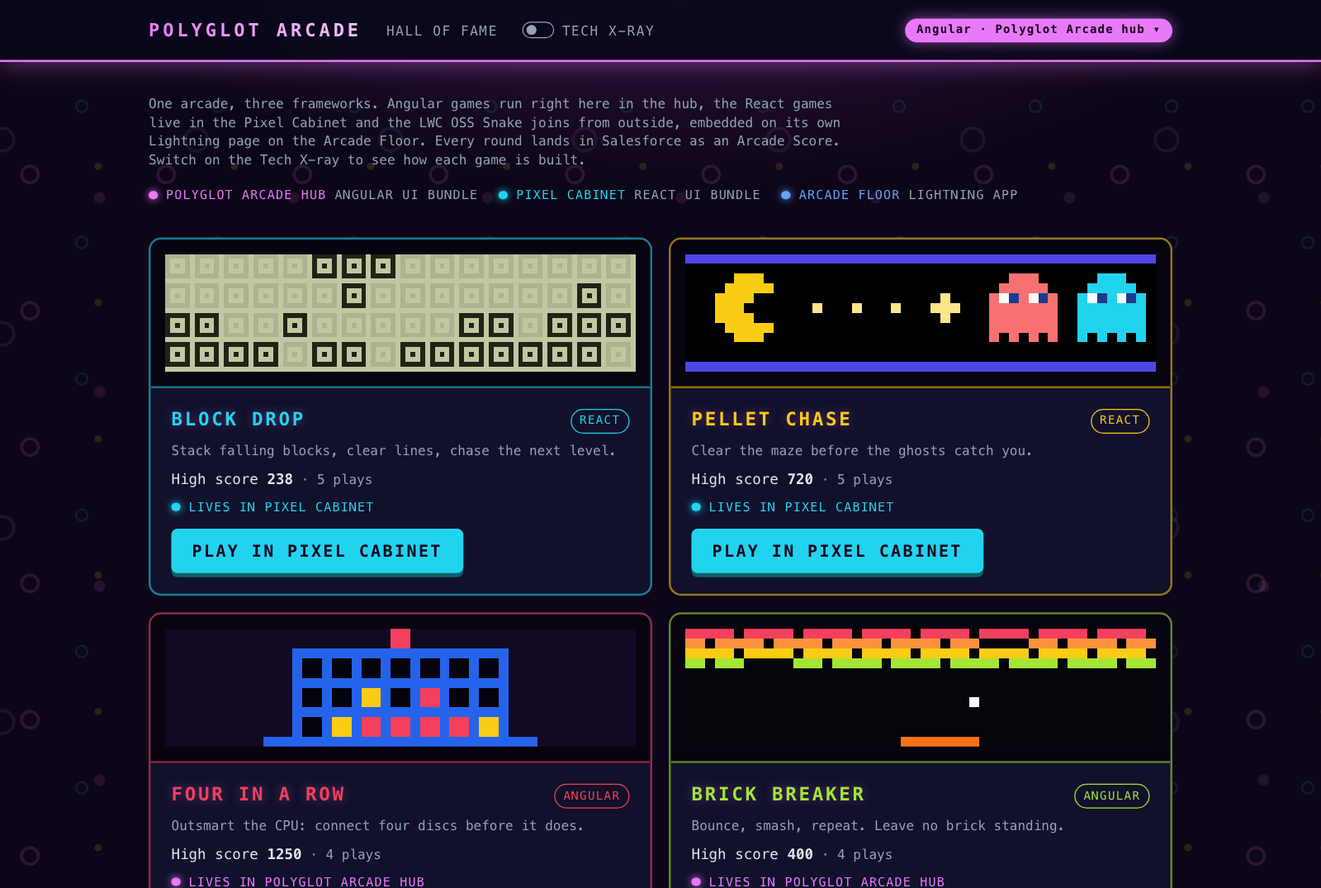
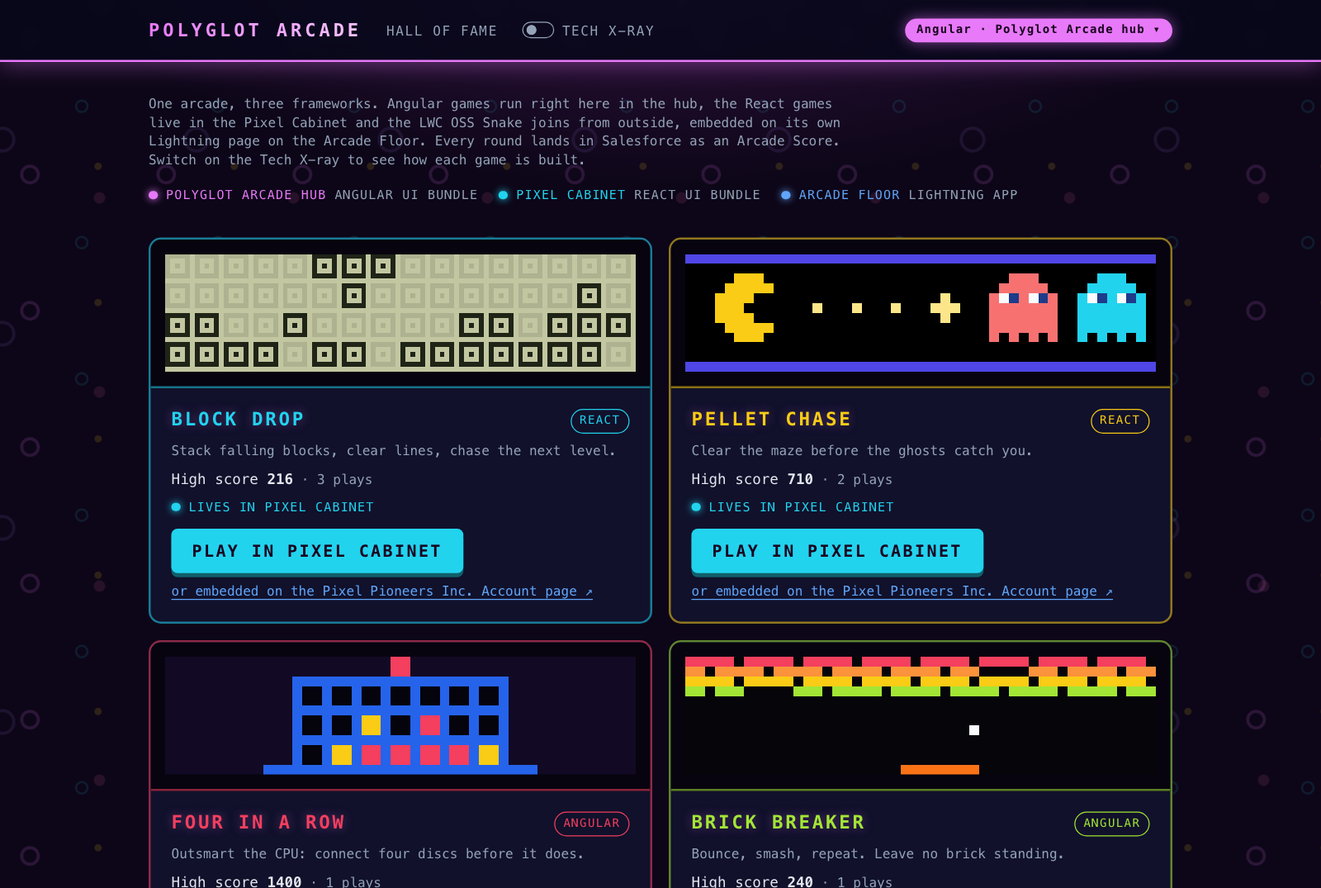
feat(arcade-floor): seed the showcase Account Pixel Pioneers Inc.
The Arcade Account page - the cabinet framed on a record page, rounds counted
for the Account - had no way in: no link from the hub, and a fresh org has no
Account to open. The setup now upserts Pixel Pioneers Inc. by the new external
ID Account.Arcade_Key__c, the hub lobby links its page in the Arcade Floor app
from Block Drop and Pellet Chase, and the list view Arcade Accounts lists it.
The permission set grants read access to Accounts and the new field.

Docs: the Account page screenshot for pattern 3, the showcase Account in the
data model, setup, upgrade and troubleshooting; a fresh lobby screenshot.

Changed region(s): [[0.0938, 0.6447, 0.9062, 1.0], [0.75, 0.9209, 0.7812, 0.9823]]

diff --git a/force-app/main/default/uiBundles/polyglotArcade/src/app/pages/lobby/lobby.spec.ts b/force-app/main/default/uiBundles/polyglotArcade/src/app/pages/lobby/lobby.spec.ts
@@ -1,7 +1,7 @@
 import { TestBed } from '@angular/core/testing';
 import { provideRouter } from '@angular/router';
 import { ArcadeApi, type ArcadeGame } from '../../api/arcade-api.service';
-import { arcadeFloorUrl } from '../../arcade-floor';
+import { arcadeFloorRecordUrl, arcadeFloorUrl } from '../../arcade-floor';
 import { TechXray } from '../../tech-xray.service';
 import { LobbyComponent } from './lobby';
 
@@ -42,10 +42,18 @@ const GAMES: ArcadeGame[] = [
   game({ key: 'new-game', name: 'New Game', framework: 'Angular' }),
 ];
 
-async function renderLobby(): Promise<HTMLElement> {
+const SHOWCASE = { id: '001SHOWCASE', name: 'Pixel Pioneers Inc.' };
+
+async function renderLobby(showcase: typeof SHOWCASE | null = SHOWCASE): Promise<HTMLElement> {
   await TestBed.configureTestingModule({
     imports: [LobbyComponent],
-    providers: [provideRouter([]), { provide: ArcadeApi, useValue: { games: async () => GAMES } }],
+    providers: [
+      provideRouter([]),
+      {
+        provide: ArcadeApi,
+        useValue: { games: async () => GAMES, showcaseAccount: async () => showcase },
+      },
+    ],
   }).compileComponents();
   const fixture = TestBed.createComponent(LobbyComponent);
   await fixture.whenStable();
@@ -67,6 +75,35 @@ describe('LobbyComponent', () => {
     );
     expect(arcadeFloorUrl(undefined, 'Arcade_Snake')).toBeNull();
     expect(arcadeFloorUrl('https://org.my.salesforce.com', undefined)).toBeNull();
+  });
+
+  it('builds a record URL inside the Arcade Floor app', () => {
+    expect(arcadeFloorRecordUrl('https://org.my.salesforce.com/', 'Account', '001X')).toBe(
+      'https://org.my.salesforce.com/lightning/app/c__arcadeFloor/r/Account/001X/view',
+    );
+    expect(arcadeFloorRecordUrl('https://org.my.salesforce.com', 'Account', null)).toBeNull();
+    expect(arcadeFloorRecordUrl(undefined, 'Account', '001X')).toBeNull();
+  });
+
+  it('offers the showcase Account page for games Lightning can frame', async () => {
+    globalThis.SFDC_ENV = { orgUrl: 'https://org.my.salesforce.com' };
+    const root = await renderLobby();
+
+    const account = card(root, 'Block Drop').querySelector<HTMLAnchorElement>('a.lobby-account');
+    expect(account?.textContent).toContain('Pixel Pioneers Inc. Account page');
+    expect(account?.getAttribute('href')).toBe(
+      'https://org.my.salesforce.com/lightning/app/c__arcadeFloor/r/Account/001SHOWCASE/view',
+    );
+    expect(account?.getAttribute('target')).toBe('_top');
+    // Only cabinet games with an embed path are framed on a record page.
+    expect(card(root, 'Four in a Row').querySelector('a.lobby-account')).toBeNull();
+    expect(card(root, 'Snake').querySelector('a.lobby-account')).toBeNull();
+  });
+
+  it('shows no Account link without the showcase Account', async () => {
+    globalThis.SFDC_ENV = { orgUrl: 'https://org.my.salesforce.com' };
+    const root = await renderLobby(null);
+    expect(root.querySelector('a.lobby-account')).toBeNull();
   });
 
   it('links each game to where it is played', async () => {

diff --git a/force-app/main/default/uiBundles/polyglotArcade/src/app/api/arcade-api.service.ts b/force-app/main/default/uiBundles/polyglotArcade/src/app/api/arcade-api.service.ts
@@ -1,6 +1,7 @@
 /**
- * Polyglot Arcade data access for the hub: the game catalogue, score creation
- * and leaderboards via the UI API GraphQL endpoint of the Data SDK.
+ * Polyglot Arcade data access for the hub: the game catalogue, score creation,
+ * leaderboards and the showcase Account via the UI API GraphQL endpoint of the
+ * Data SDK.
  */
 import { Injectable, inject } from '@angular/core';
 import { DataClient } from './data-client.service';
@@ -26,6 +27,15 @@ export interface ArcadeGame {
   highScore: number | null;
   totalPlays: number;
 }
+
+/** The Account that npm run setup seeds to show the cabinet on a record page. */
+export interface ShowcaseAccount {
+  id: string;
+  name: string;
+}
+
+/** Arcade_Key__c of the showcase Account in the seed data. */
+export const SHOWCASE_ACCOUNT_KEY = 'pixel-pioneers';
 
 export interface LeaderboardEntry {
   id: string;
@@ -75,6 +85,12 @@ interface LeaderboardResult {
         }>;
       };
     };
+  };
+}
+
+interface ShowcaseAccountResult {
+  uiapi: {
+    query: { Account: { edges: Array<{ node: { Id: string; Name: FieldValue<string> } }> } };
   };
 }
 
@@ -170,6 +186,25 @@ const LEADERBOARD = /* GraphQL */ `
   }
 `;
 
+const SHOWCASE_ACCOUNT = /* GraphQL */ `
+  query HubShowcaseAccount($key: String) {
+    uiapi {
+      query {
+        Account(where: { Arcade_Key__c: { eq: $key } }, first: 1) {
+          edges {
+            node {
+              Id
+              Name {
+                value
+              }
+            }
+          }
+        }
+      }
+    }
+  }
+`;
+
 const CREATE_SCORE = /* GraphQL */ `
   mutation HubCreateScore($input: Arcade_Score__cCreateInput!) {
     uiapi {
@@ -252,6 +287,22 @@ export class ArcadeApi {
       },
     });
     return { isHighScore: input.score > (game.highScore ?? 0) };
+  }
+
+  /**
+   * The seeded showcase Account, or null when it is missing or the player
+   * cannot read it - the lobby then simply shows no Account link.
+   */
+  async showcaseAccount(): Promise<ShowcaseAccount | null> {
+    try {
+      const data = await this.client.execute<ShowcaseAccountResult>(SHOWCASE_ACCOUNT, {
+        key: SHOWCASE_ACCOUNT_KEY,
+      });
+      const node = data.uiapi.query.Account.edges[0]?.node;
+      return node ? { id: node.Id, name: node.Name.value ?? 'Account' } : null;
+    } catch {
+      return null;
+    }
   }
 
   /** Name of the logged-in user, shown in the marquee bar. */

diff --git a/force-app/main/default/uiBundles/polyglotArcade/src/app/pages/lobby/lobby.ts b/force-app/main/default/uiBundles/polyglotArcade/src/app/pages/lobby/lobby.ts
@@ -11,8 +11,8 @@
  */
 import { ChangeDetectionStrategy, Component, inject, signal } from '@angular/core';
 import { RouterLink } from '@angular/router';
-import { ArcadeApi, type ArcadeGame } from '../../api/arcade-api.service';
-import { arcadeFloorUrl } from '../../arcade-floor';
+import { ArcadeApi, type ArcadeGame, type ShowcaseAccount } from '../../api/arcade-api.service';
+import { arcadeFloorRecordUrl, arcadeFloorUrl } from '../../arcade-floor';
 import { TeaserMarqueeComponent } from '../../components/teaser-marquee/teaser-marquee';
 import { teaserMarquee, type PixelArt } from '../../games/marquees';
 import { findHubGame } from '../../games/registry';
@@ -60,6 +60,8 @@ export class LobbyComponent {
   protected readonly surfaces = [HUB, CABINET, FLOOR];
   protected readonly games = signal<ArcadeGame[] | null>(null);
   protected readonly error = signal<string | null>(null);
+  /** Where cabinet games are framed on a record page; null until found. */
+  protected readonly showcase = signal<ShowcaseAccount | null>(null);
   private readonly orgUrl = globalThis.SFDC_ENV?.orgUrl;
 
   constructor() {
@@ -67,6 +69,7 @@ export class LobbyComponent {
       .games()
       .then((games) => this.games.set(games))
       .catch((err: Error) => this.error.set(err.message));
+    this.api.showcaseAccount().then((account) => this.showcase.set(account));
   }
 
   protected isHubGame(game: ArcadeGame): boolean {
@@ -91,6 +94,15 @@ export class LobbyComponent {
   /** Null when the hub runs without org context or the game has no page. */
   protected arcadeFloorUrl(game: ArcadeGame): string | null {
     return arcadeFloorUrl(this.orgUrl, ARCADE_FLOOR_TABS[game.key]);
+  }
+
+  /**
+   * The showcase Account's page on the Arcade Floor for a game Lightning can
+   * frame (pattern 3); null without org context, Account or embed path.
+   */
+  protected accountPageUrl(game: ArcadeGame): string | null {
+    if (!game.embedPath || game.hostSavesScore) return null;
+    return arcadeFloorRecordUrl(this.orgUrl, 'Account', this.showcase()?.id);
   }
 
   protected externalUrl(game: ArcadeGame): string | null {

diff --git a/force-app/main/default/uiBundles/polyglotArcade/src/app/arcade-floor.ts b/force-app/main/default/uiBundles/polyglotArcade/src/app/arcade-floor.ts
@@ -19,5 +19,18 @@ export function arcadeFloorUrl(
   return home && tab ? `${home}/n/${tab}` : null;
 }
 
+/**
+ * A record inside the app, e.g. the showcase Account: the record page that is
+ * the app's default for the object (Arcade Account) frames the cabinet.
+ */
+export function arcadeFloorRecordUrl(
+  orgUrl: string | null | undefined,
+  objectApiName: string,
+  recordId: string | null | undefined,
+): string | null {
+  const home = arcadeFloorHomeUrl(orgUrl);
+  return home && recordId ? `${home}/r/${objectApiName}/${recordId}/view` : null;
+}
+
 /** Ends the Salesforce session, like the platform's session banner does. */
 export const LOGOUT_URL = '/secur/logout.jsp';

diff --git a/force-app/main/default/uiBundles/polyglotArcade/src/app/pages/lobby/lobby.html b/force-app/main/default/uiBundles/polyglotArcade/src/app/pages/lobby/lobby.html
@@ -109,6 +109,15 @@
             target="_top"
             >Play in Pixel Cabinet</a
           >
+          @if (accountPageUrl(game); as account) {
+            <a
+              class="lobby-account"
+              [style.--where]="surfaces[2].color"
+              [href]="account"
+              target="_top"
+              >or embedded on the {{ showcase()?.name }} Account page ↗</a
+            >
+          }
         } @else {
           <p class="arcade-hint mt-1">
             Lives in the Pixel Cabinet. Store its App URL on the game record to launch it from here.

diff --git a/force-app/main/default/uiBundles/polyglotArcade/src/app/api/graphql-operations-types.ts b/force-app/main/default/uiBundles/polyglotArcade/src/app/api/graphql-operations-types.ts
@@ -183,6 +183,22 @@ export type HubLeaderboardQuery = {
   };
 };
 
+export type HubShowcaseAccountQueryVariables = Exact<{
+  key?: InputMaybe<Scalars['String']['input']>;
+}>;
+
+export type HubShowcaseAccountQuery = {
+  uiapi: {
+    query: {
+      Account?: {
+        edges?: Array<{
+          node?: { Id: string; Name?: { value?: string | null } | null } | null;
+        } | null> | null;
+      } | null;
+    };
+  };
+};
+
 export type HubCreateScoreMutationVariables = Exact<{
   input: Arcade_Score__CCreateInput;
 }>;

diff --git a/force-app/main/default/uiBundles/polyglotArcade/src/app/pages/lobby/lobby.css b/force-app/main/default/uiBundles/polyglotArcade/src/app/pages/lobby/lobby.css
@@ -40,6 +40,19 @@
   overflow: hidden;
 }
 
+/* Second way to play a cabinet game: framed on a record page in Lightning. */
+.lobby-account {
+  align-self: flex-start;
+  font-size: 0.8rem;
+  color: var(--where);
+  text-decoration: underline;
+  text-underline-offset: 3px;
+}
+
+.lobby-account:hover {
+  text-decoration-thickness: 2px;
+}
+
 /* Backlit marquee on top of the card. */
 .lobby-marquee {
   margin: -1.25rem -1.25rem 0.5rem;

diff --git a/docs/architecture/index.md b/docs/architecture/index.md
@@ -56,11 +56,11 @@ Solid arrows carry data and events, dotted arrows are links a player follows.
 
 ## The surfaces
 
-| Surface                                                                | Room                | Role                                                                                                                                                                                                                                            |
-| ---------------------------------------------------------------------- | ------------------- | ----------------------------------------------------------------------------------------------------------------------------------------------------------------------------------------------------------------------------------------------- |
-| <span class="surface hub">Polyglot Arcade</span><br/>Angular UI bundle | magenta arcade hall | The only lobby and hall of fame, and the entry point. It launches every game, wherever it lives.                                                                                                                                                |
-| <span class="surface cabinet">Pixel Cabinet</span><br/>React UI bundle | cyan machine room   | A machine, not a second hub. It has no lobby: opening it sends the player to the hub lobby. The hub launches its games at `/play/<game>`, Lightning frames them at `/embed`.                                                                    |
-| <span class="surface floor">Arcade Floor</span><br/>Lightning app      | blue                | Where microfrontends are composed: the **Snake** page with the Snake and its leaderboard, and the **Arcade Account** record page (app default for Accounts) with the cabinet and the Account's leaderboard. Rounds there count for the Account. |
+| Surface                                                                | Room                | Role                                                                                                                                                                                                                                                                                                     |
+| ---------------------------------------------------------------------- | ------------------- | -------------------------------------------------------------------------------------------------------------------------------------------------------------------------------------------------------------------------------------------------------------------------------------------------------- |
+| <span class="surface hub">Polyglot Arcade</span><br/>Angular UI bundle | magenta arcade hall | The only lobby and hall of fame, and the entry point. It launches every game, wherever it lives.                                                                                                                                                                                                         |
+| <span class="surface cabinet">Pixel Cabinet</span><br/>React UI bundle | cyan machine room   | A machine, not a second hub. It has no lobby: opening it sends the player to the hub lobby. The hub launches its games at `/play/<game>`, Lightning frames them at `/embed`.                                                                                                                             |
+| <span class="surface floor">Arcade Floor</span><br/>Lightning app      | blue                | Where microfrontends are composed: the **Snake** page with the Snake and its leaderboard, and the **Arcade Account** record page (app default for Accounts) with the cabinet and the Account's leaderboard. Rounds there count for the Account. The setup seeds **Pixel Pioneers Inc.** as its showcase. |
 
 The Snake is a guest, not a surface: an [LWC OSS game](https://github.com/svierk/lwc-oss-snake-game) on Vercel, without a Salesforce session of its own. It is played embedded on its page in the Arcade Floor.
 
@@ -80,12 +80,12 @@ Below the bar, every game is a machine of its own - see [Games](/games).
 
 ## Navigation between the surfaces
 
-| From → to       | How                                                                                                                                          |
-| --------------- | -------------------------------------------------------------------------------------------------------------------------------------------- |
-| Hub → cabinet   | The **App URL** on the React game records, stored by the setup's connect step                                                                |
-| Hub → Lightning | The org URL plus `/lightning/app/c__arcadeFloor/n/<tab>`, so the page opens inside the Arcade Floor app; `Salesforce ↗` opens the app itself |
-| Cabinet → hub   | Derived from the cabinet's own base path: both bundles share one origin, so the cabinet swaps its app name for the hub's                     |
-| Lightning → hub | The `← Polyglot Arcade` action on the Arcade Game Host card, from the App URL of the Angular game records                                    |
+| From → to       | How                                                                                                                                                                                                                                 |
+| --------------- | ----------------------------------------------------------------------------------------------------------------------------------------------------------------------------------------------------------------------------------- |
+| Hub → cabinet   | The **App URL** on the React game records, stored by the setup's connect step                                                                                                                                                       |
+| Hub → Lightning | The org URL plus `/lightning/app/c__arcadeFloor/n/<tab>` for a page and `/lightning/app/c__arcadeFloor/r/Account/<id>/view` for the showcase Account, so both open inside the Arcade Floor app; `Salesforce ↗` opens the app itself |
+| Cabinet → hub   | Derived from the cabinet's own base path: both bundles share one origin, so the cabinet swaps its app name for the hub's                                                                                                            |
+| Lightning → hub | The `← Polyglot Arcade` action on the Arcade Game Host card, from the App URL of the Angular game records                                                                                                                           |
 
 Both bundles are served from the same origin, for example `https://<my-domain>--c.<...>.salesforce.app/app/c__pixelCabinet` and `/app/c__polyglotArcade`. An org-relative URL such as `/lightning/app/c__polyglotArcade` does not launch a UI bundle - Lightning needs the bundle's `*.salesforce.app` URL, which is only exposed as the start URL of the app's App Launcher entry. That is why the [setup](/deploy/) reads it and stores it on the game records.
 

diff --git a/docs/architecture/data-model.md b/docs/architecture/data-model.md
@@ -1,5 +1,5 @@
 ---
-description: The data model of Polyglot Arcade - Arcade_Game__c and Arcade_Score__c, roll-up summaries, the Polyglot Arcade Player permission set, reports and the dashboard.
+description: The data model of Polyglot Arcade - Arcade_Game__c and Arcade_Score__c, roll-up summaries, the showcase Account, the Polyglot Arcade Player permission set, reports and the dashboard.
 ---
 
 # Data model
@@ -29,6 +29,9 @@ erDiagram
         Number Level__c "level or difficulty"
         Number Duration_Seconds__c
         Picklist Source__c "Polyglot Arcade | Pixel Cabinet | Embedded"
+    }
+    Account {
+        Text Arcade_Key__c "external ID, e.g. pixel-pioneers"
     }
 ```
 
@@ -63,9 +66,16 @@ One record per finished round, the child of its game (master-detail). The player
 
 Leaderboards only list scoring rounds; lost rounds still count as plays.
 
+## Showcase Account
+
+Rounds played on an Account page belong to that Account. So that this is visible in every org, the seed data ([`Account.json`](../../force-app/main/default/data/Account.json)) holds one fictional customer, **Pixel Pioneers Inc.** The setup upserts it by the custom field `Account.Arcade_Key__c` (external ID, `pixel-pioneers`) - like the games, it is updated in place on every run and its rounds survive.
+
+- The hub lobby looks the Account up by its key and links its Arcade Account page from the cabinet games.
+- The list view **Arcade Accounts** on the Accounts tab lists every Account with an Arcade Key.
+
 ## Access
 
-The permission set **Polyglot Arcade Player** (`polyglotArcade_Access`) grants the two UI bundle apps and Arcade Floor, read access to games and create and read access to scores. Players cannot edit or delete scores. Everything else - which scores a player sees, which fields - is the platform's sharing and field-level security, enforced in every surface because all of them read through UI API.
+The permission set **Polyglot Arcade Player** (`polyglotArcade_Access`) grants the two UI bundle apps and Arcade Floor, read access to games, Accounts and their Arcade Key, and create and read access to scores. Players cannot edit or delete scores. Everything else - which scores a player sees, which fields - is the platform's sharing and field-level security, enforced in every surface because all of them read through UI API.
 
 ## Reports and dashboard
 

diff --git a/README.md b/README.md
@@ -5,7 +5,7 @@
 [![Release](https://img.shields.io/github/v/release/svierk/polyglot-arcade?sort=semver)](https://github.com/svierk/polyglot-arcade/releases/latest)
 [![License: MIT](https://img.shields.io/badge/License-MIT-blue.svg)](LICENSE)
 
-<img src="./images/lobby.png" alt="Polyglot Arcade lobby in the magenta arcade hall: game cards with pixel-art teaser marquees, each saying where its game lives" width="900"/>
+<img src="./images/lobby.png" alt="Polyglot Arcade lobby in the magenta arcade hall: game cards with pixel-art teaser marquees, each saying where its game lives, the cabinet games also linking to the Pixel Pioneers Inc. Account page" width="900"/>
 
 A retro arcade that runs on the Salesforce Platform and shows **Salesforce Multi-Framework** end to end: an **Angular** app and a **React** app live side by side in one org, share the same CRM data and embed into Lightning pages as **microfrontends** - next to an **LWC OSS** game that is hosted outside Salesforce altogether.
 
@@ -61,7 +61,7 @@ sf org create scratch -f config/project-scratch-def.json -a polyglot-arcade -v <
 npm run setup -- --target-org polyglot-arcade
 ```
 
-`npm run setup` checks the org, builds and deploys both UI bundles and the metadata, assigns the permission set, seeds the games and connects the surfaces. It is safe to run again and keeps all scores. Then open **Polyglot Arcade** from the App Launcher. For an existing org, an upgrade and troubleshooting, see [Deploy](https://svierk.github.io/polyglot-arcade/deploy/).
+`npm run setup` checks the org, builds and deploys both UI bundles and the metadata, assigns the permission set, seeds the games and connects the surfaces. It is safe to run again and keeps all scores. Then open **Polyglot Arcade** from the App Launcher - and play a cabinet game embedded on the page of the showcase Account **Pixel Pioneers Inc.** For an existing org, an upgrade and troubleshooting, see [Deploy](https://svierk.github.io/polyglot-arcade/deploy/).
 
 ## 🗺 What's next
 

diff --git a/docs/deploy/troubleshooting.md b/docs/deploy/troubleshooting.md
@@ -14,6 +14,7 @@ Most problems come from a gap in the org or a step of the setup that did not run
 | The host card has no **← Polyglot Arcade** action               | The Angular games miss the hub URL: run `npm run connect`                                                                                                                              |
 | An Account opens without the embedded cabinet                   | **Arcade Account** is the app default in Arcade Floor only: open the Account from the Arcade Floor app                                                                                 |
 | A UI bundle does not open from the App Launcher                 | Enable **Salesforce Edge Network** in My Domain - `npm run preflight` checks it                                                                                                        |
+| The lobby has no link to the Pixel Pioneers Inc. Account page   | Run `npm run setup` to seed the showcase Account; players also need read access to Accounts (the permission set grants it)                                                             |
 | The lobby says it could not load games                          | Assign the **Polyglot Arcade Player** permission set                                                                                                                                   |
 | The setup prints `⚠` lines before the deploy                    | The preflight found a gap in the org; each line comes with a hint. The setup continues anyway                                                                                          |
 | The dashboard or a report shows no data for a player            | Players need the **Run Reports** user permission, which standard profiles include                                                                                                      |

diff --git a/docs/games.md b/docs/games.md
@@ -20,7 +20,7 @@ The games are original implementations of classic mechanics. Names and artwork a
 
 <TeaserMarquee game="block-drop" />
 
-**Handheld brick game** in early-90s proportions: ivory plastic, a grey-olive LCD with segment digits, direction and rotate keys as touch controls. Launched from the hub lobby into the Pixel Cabinet, and framed by Lightning on the **Arcade Account** page.
+**Handheld brick game** in early-90s proportions: ivory plastic, a grey-olive LCD with segment digits, direction and rotate keys as touch controls. Launched from the hub lobby into the Pixel Cabinet, and framed by Lightning on the **Arcade Account** page - the lobby links the page of the showcase Account **Pixel Pioneers Inc.**
 
 | Keyboard                             | Touch                                    |
 | ------------------------------------ | ---------------------------------------- |
@@ -32,7 +32,7 @@ The games are original implementations of classic mechanics. Names and artwork a
 
 <TeaserMarquee game="pellet-chase" />
 
-**Upright arcade cabinet**: backlit marquee, a CRT with scanlines, joystick panel and attract-screen high scores. Four ghosts, each with its own tactics. Lives in the Pixel Cabinet like Block Drop, and can be framed in Lightning the same way.
+**Upright arcade cabinet**: backlit marquee, a CRT with scanlines, joystick panel and attract-screen high scores. Four ghosts, each with its own tactics. Lives in the Pixel Cabinet like Block Drop, and can be played on the Pixel Pioneers Inc. Account page the same way.
 
 | Keyboard                        | Touch                             |
 | ------------------------------- | --------------------------------- |
